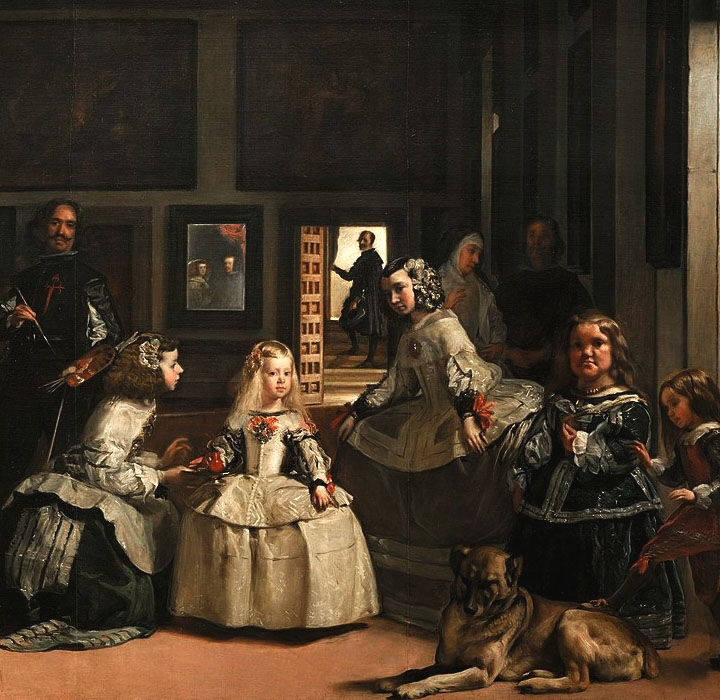
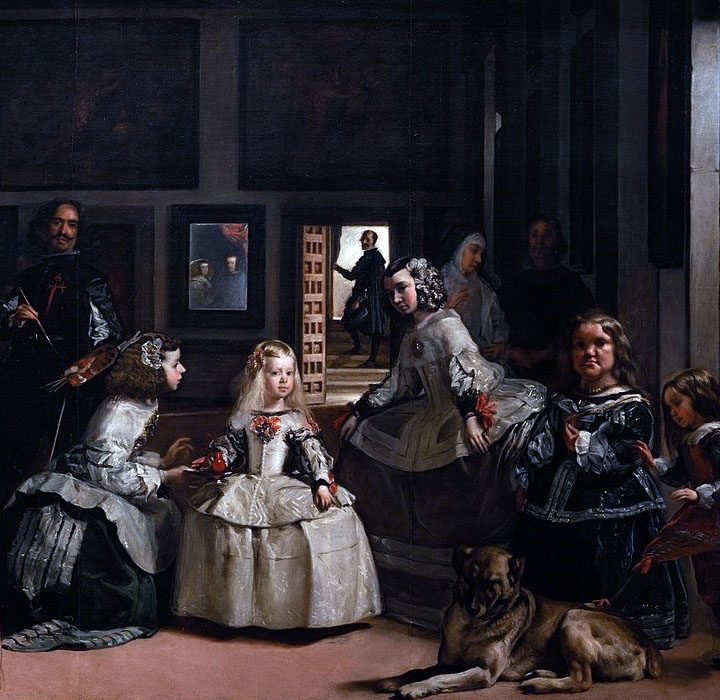
feat: add comparison slider in explore section

diff --git a/museum/src/js/comparison-slider.js b/museum/src/js/comparison-slider.js
@@ -1,0 +1,86 @@
+function initComparisons() {
+  var x, i;
+  /*find all elements with an "overlay" class:*/
+  x = document.getElementsByClassName("img-comp-overlay");
+  for (i = 0; i < x.length; i++) {
+    /*once for each "overlay" element:
+    pass the "overlay" element as a parameter when executing the compareImages function:*/
+    compareImages(x[i]);
+  }
+  function compareImages(img) {
+    var slider,
+      img,
+      clicked = 0,
+      w,
+      h;
+    /*get the width and height of the img element*/
+    w = img.offsetWidth;
+    h = img.offsetHeight;
+    /*set the width of the img element to 50%:*/
+    img.style.width = w / 2 + "px";
+    /*create slider:*/
+    slider = document.createElement("DIV");
+    slider.setAttribute("class", "img-comp-slider");
+    /*insert slider*/
+    img.parentElement.insertBefore(slider, img);
+    /*position the slider in the middle:*/
+    slider.style.top = h / 2 - slider.offsetHeight / 2 + "px";
+    slider.style.left = w / 2 - slider.offsetWidth / 2 + 80 + "px";
+    // set the initial overlay width
+    img.style.width =
+      parseFloat(slider.style.left) + slider.offsetWidth / 2 + "px";
+    /*execute a function when the mouse button is pressed:*/
+    slider.addEventListener("mousedown", slideReady);
+    /*and another function when the mouse button is released:*/
+    window.addEventListener("mouseup", slideFinish);
+    /*or touched (for touch screens:*/
+    slider.addEventListener("touchstart", slideReady);
+    /*and released (for touch screens:*/
+    window.addEventListener("touchstop", slideFinish);
+    function slideReady(e) {
+      /*prevent any other actions that may occur when moving over the image:*/
+      e.preventDefault();
+      /*the slider is now clicked and ready to move:*/
+      clicked = 1;
+      /*execute a function when the slider is moved:*/
+      window.addEventListener("mousemove", slideMove);
+      window.addEventListener("touchmove", slideMove);
+    }
+    function slideFinish() {
+      /*the slider is no longer clicked:*/
+      clicked = 0;
+    }
+    function slideMove(e) {
+      var pos;
+      /*if the slider is no longer clicked, exit this function:*/
+      if (clicked == 0) return false;
+      /*get the cursor's x position:*/
+      pos = getCursorPos(e);
+      /*prevent the slider from being positioned outside the image:*/
+      if (pos < 0) pos = 0;
+      if (pos > w) pos = w;
+      /*execute a function that will resize the overlay image according to the cursor:*/
+      slide(pos);
+    }
+    function getCursorPos(e) {
+      var a,
+        x = 0;
+      e = e || window.event;
+      /*get the x positions of the image:*/
+      a = img.getBoundingClientRect();
+      /*calculate the cursor's x coordinate, relative to the image:*/
+      x = e.pageX - a.left;
+      /*consider any page scrolling:*/
+      x = x - window.pageXOffset;
+      return x;
+    }
+    function slide(x) {
+      /*resize the image:*/
+      img.style.width = x + "px";
+      /*position the slider:*/
+      slider.style.left = img.offsetWidth - slider.offsetWidth / 2 + "px";
+    }
+  }
+}
+
+initComparisons();

diff --git a/museum/src/index.html b/museum/src/index.html
@@ -5,7 +5,6 @@
     <meta http-equiv="X-UA-Compatible" content="IE=edge" />
     <meta name="viewport" content="width=device-width, initial-scale=1.0" />
     <title>Museum</title>
-    <link rel="stylesheet" href="css/style.css" />
     <link rel="icon" href="assets/svg/favicon.ico" />
     <link
       href="https://fonts.googleapis.com/css2?family=Forum&family=Roboto:wght@100;300;500;700&display=swap"
@@ -131,8 +130,19 @@
               had been damaged in any way, but because it looked different.
             </p>
           </div>
-          <div class="img">
-            <img src="./assets/img/explore-img.jpg" alt="explore the picture" />
+          <div class="img-comp-container">
+            <div class="img-comp-img">
+              <img
+                src="./assets/img/explore-img.jpg"
+                alt="explore the picture"
+              />
+            </div>
+            <div class="img-comp-img img-comp-overlay">
+              <img
+                src="./assets/img/explore-img-overlay.jpg"
+                alt="explore the picture overlay"
+              />
+            </div>
           </div>
         </div>
       </section>

diff --git a/museum/src/css/mainStyles.scss b/museum/src/css/mainStyles.scss
@@ -252,9 +252,8 @@ body {
   &-container {
     display: flex;
 
-    div {
+    > div {
       width: 50%;
-      margin-top: -3px;
     }
 
     h2 {
@@ -269,7 +268,7 @@ body {
     }
 
     p:first-of-type {
-      margin-top: 106px;
+      margin-top: 104px;
       margin-bottom: 27px;
     }
 
@@ -280,10 +279,51 @@ body {
     span {
       color: #caaa7d;
     }
+  }
+}
 
-    .img {
-      margin-top: 12px;
-    }
+.img-comp {
+  &-container {
+    position: relative;
+    margin-top: 15px;
+    height: 700px;
+  }
+
+  &-img {
+    position: absolute;
+    width: 100%;
+    height: 100%;
+    overflow: hidden;
+  }
+
+  &-slider {
+    position: absolute;
+    z-index: 9;
+    cursor: ew-resize;
+    border: 5px solid #fff;
+    border-radius: 50%;
+    width: 39px;
+    height: 39px;
+  }
+
+  &-slider::before,
+  &-slider::after {
+    content: "";
+    display: block;
+    position: absolute;
+    width: 5px;
+    height: 332px;
+    background-color: #fff;
+  }
+
+  &-slider::before {
+    left: 12px;
+    top: -335px;
+  }
+
+  &-slider::after {
+    left: 12px;
+    top: 33px;
   }
 }
 

diff --git a/museum/src/index.js b/museum/src/index.js
@@ -2,3 +2,4 @@ import "./css/index.scss";
 
 import "./js/progress-bar";
 import "./js/swiper";
+import "./js/comparison-slider";
